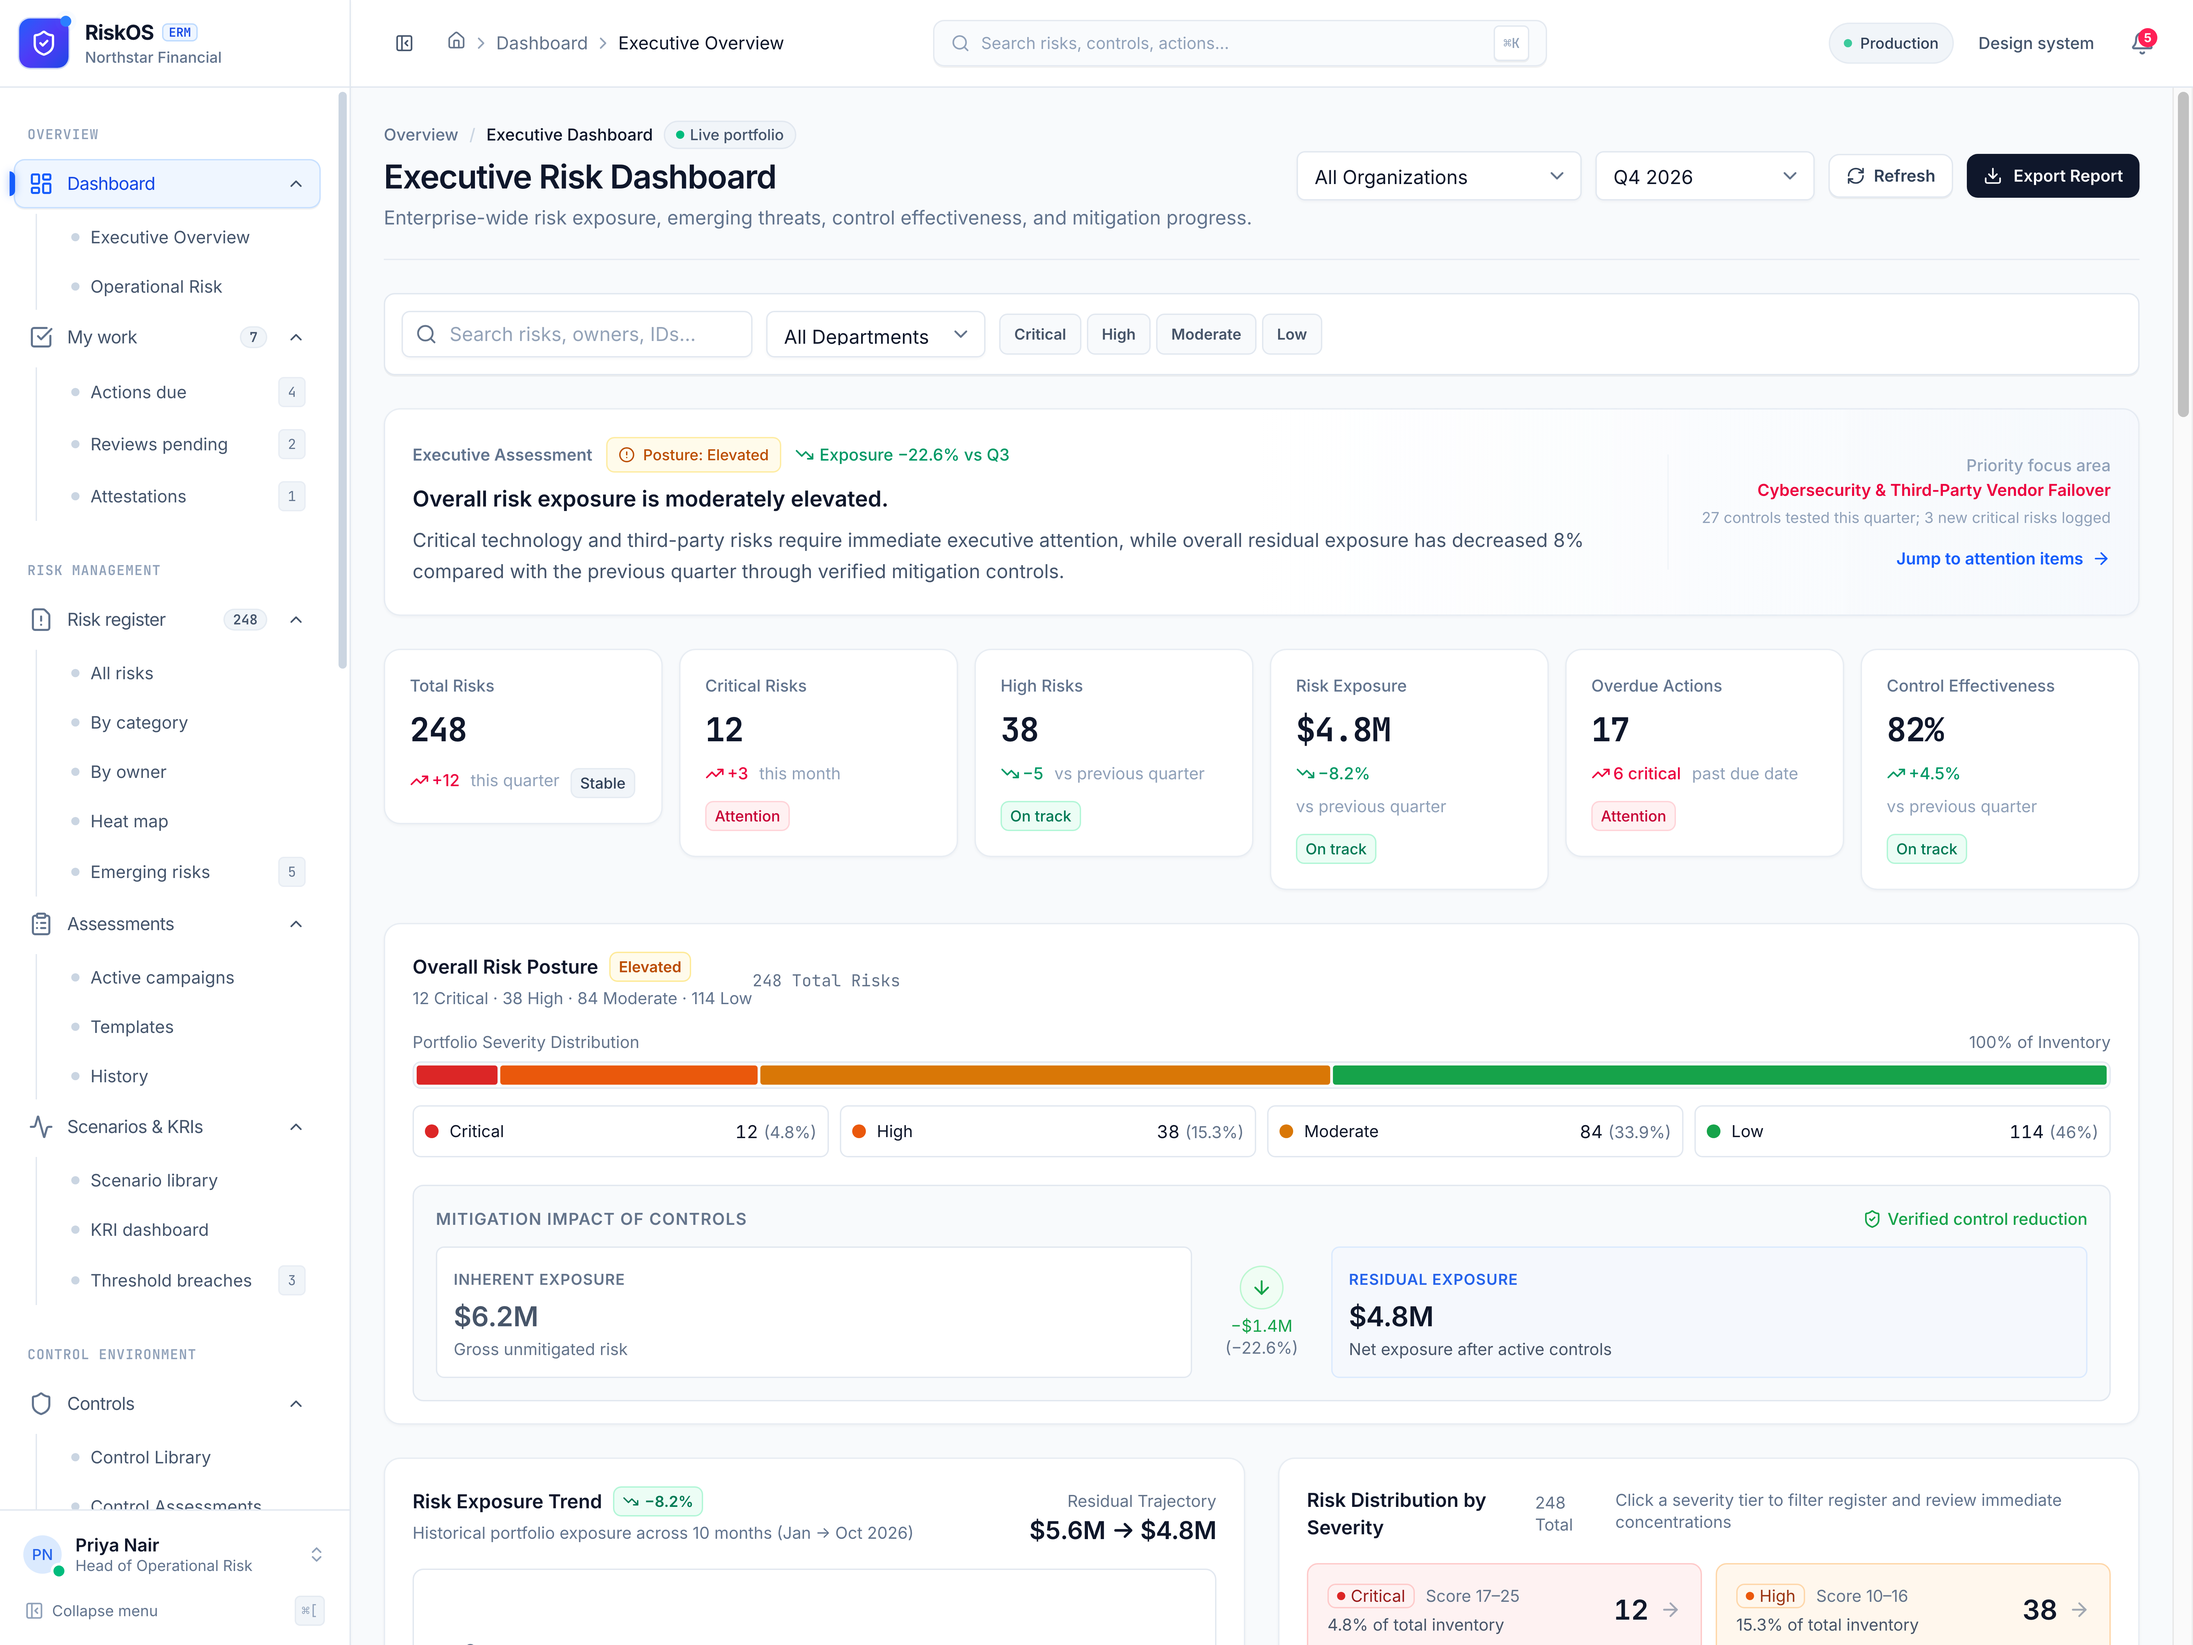
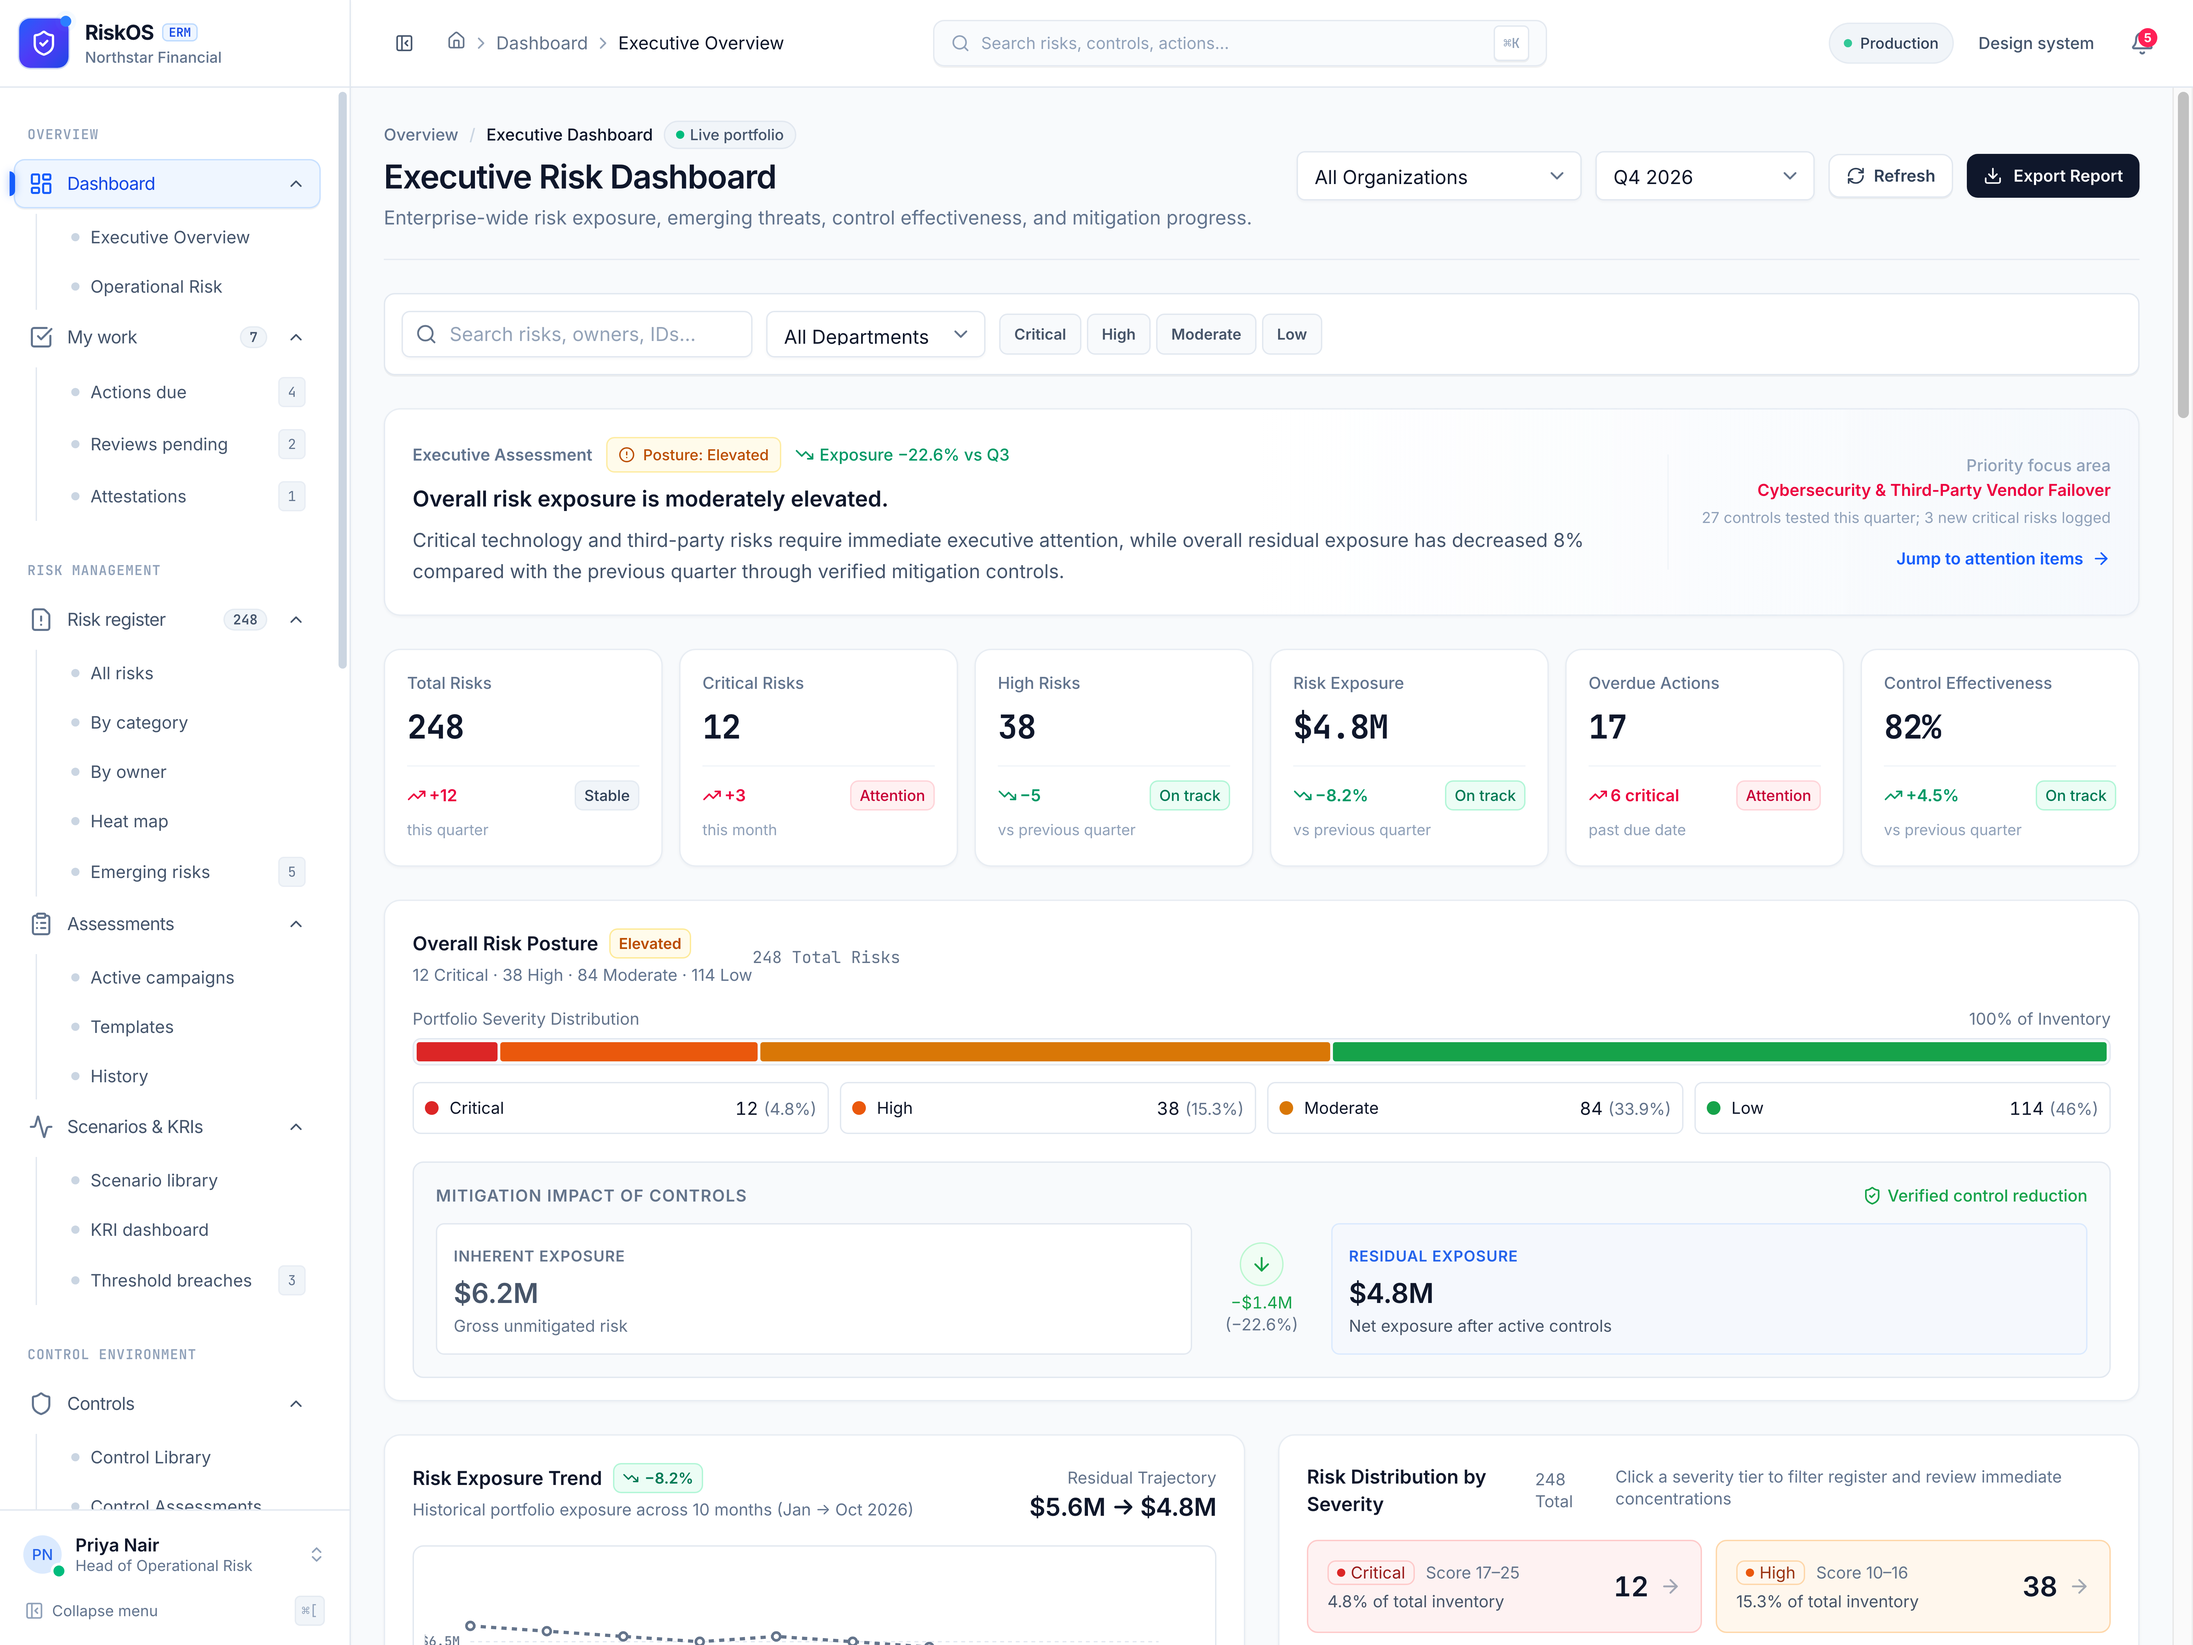
style: equalize height and align footer layout across all 6 primary KPI cards

diff --git a/src/components/ui/card.tsx b/src/components/ui/card.tsx
@@ -126,33 +126,36 @@ export function KpiCard({
         : 'text-rose-600'
 
   return (
-    <Card className={cn('p-4.5 hover:border-slate-300 transition-all', className)}>
-      <div className="flex items-start justify-between gap-3">
-        <div className="min-w-0 flex-1">
-          <div className="text-xs font-medium text-slate-500">{title}</div>
-          <div className="mt-2 font-mono text-2xl font-bold tracking-tight text-slate-900 tabular-nums">
-            {value}
-          </div>
-          <div className="mt-2 flex flex-wrap items-center gap-2">
-            {trend && (
-              <span className={cn('inline-flex items-center gap-0.5 text-xs font-medium', trendColor)}>
-                <TrendIcon className="size-3.5" aria-hidden />
-                {trend.value}
-              </span>
-            )}
-            {supporting && (
-              <span className="text-xs text-slate-400">{supporting}</span>
-            )}
-            {status}
-          </div>
+    <Card className={cn('p-4 hover:border-slate-300 transition-all h-full flex flex-col justify-between', className)}>
+      <div>
+        <div className="flex items-start justify-between gap-2">
+          <div className="text-xs font-medium text-slate-500 truncate">{title}</div>
+          {Icon && (
+            <div className="flex size-7 shrink-0 items-center justify-center rounded-lg bg-blue-50 text-blue-600">
+              <Icon className="size-3.5" aria-hidden />
+            </div>
+          )}
         </div>
-        {Icon && (
-          <div className="flex size-9 shrink-0 items-center justify-center rounded-lg bg-blue-50 text-blue-600">
-            <Icon className="size-4.5" aria-hidden />
-          </div>
+        <div className="mt-2 font-mono text-2xl font-bold tracking-tight text-slate-900 tabular-nums">
+          {value}
+        </div>
+      </div>
+
+      <div className="mt-3 pt-2.5 border-t border-slate-100 flex flex-col gap-1">
+        <div className="flex items-center justify-between gap-1.5">
+          {trend ? (
+            <span className={cn('inline-flex items-center gap-0.5 text-xs font-semibold', trendColor)}>
+              <TrendIcon className="size-3.5 shrink-0" aria-hidden />
+              <span>{trend.value}</span>
+            </span>
+          ) : <span />}
+          {status}
+        </div>
+        {supporting && (
+          <div className="text-[11px] text-slate-400 truncate">{supporting}</div>
         )}
       </div>
-      {action && <div className="mt-3.5">{action}</div>}
+      {action && <div className="mt-2.5">{action}</div>}
     </Card>
   )
 }

diff --git a/src/dashboard/components/PrimaryKpis.tsx b/src/dashboard/components/PrimaryKpis.tsx
@@ -8,14 +8,15 @@ interface PrimaryKpisProps {
 
 export function PrimaryKpis({ onKpiClick }: PrimaryKpisProps) {
   return (
-    <div className="grid gap-3 sm:grid-cols-2 lg:grid-cols-3 xl:grid-cols-6">
+    <div className="grid gap-3 sm:grid-cols-2 lg:grid-cols-3 xl:grid-cols-6 items-stretch">
       {EXECUTIVE_KPIS.map((kpi) => (
         <div
           key={kpi.id}
           onClick={() => onKpiClick?.(kpi.id)}
-          className="cursor-pointer transition-transform hover:-translate-y-0.5"
+          className="cursor-pointer transition-transform hover:-translate-y-0.5 h-full flex flex-col"
         >
           <KpiCard
+            className="h-full"
             title={kpi.label}
             value={kpi.value}
             trend={{
@@ -34,7 +35,6 @@ export function PrimaryKpis({ onKpiClick }: PrimaryKpisProps) {
                       : 'neutral'
                 }
                 size="sm"
-                className="mt-1"
               >
                 {kpi.status === 'attention'
                   ? 'Attention'
